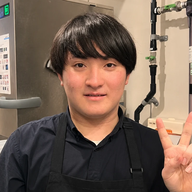
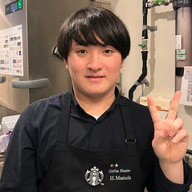
アイコンを全身寄りの構図に変更（店舗ロゴと名札を含む）
Claude-Session: https://claude.ai/code/session_012LFi6X41K9tNvZ8aLsmAhk

diff --git a/sw.js b/sw.js
@@ -1,5 +1,5 @@
 // Service Worker：オフライン対応と、新しいバージョンの検知
-const VERSION = 'ba-drill-v1.0.2';
+const VERSION = 'ba-drill-v1.0.3';
 const ASSETS = [
   './', 'index.html', 'style.css', 'db.js', 'pack.js', 'quiz.js', 'stats.js', 'app.js',
   'manifest.json', 'icons/icon-192.png', 'icons/icon-512.png',
